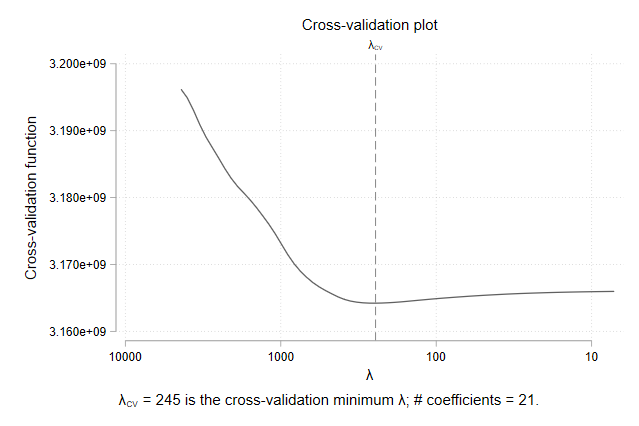
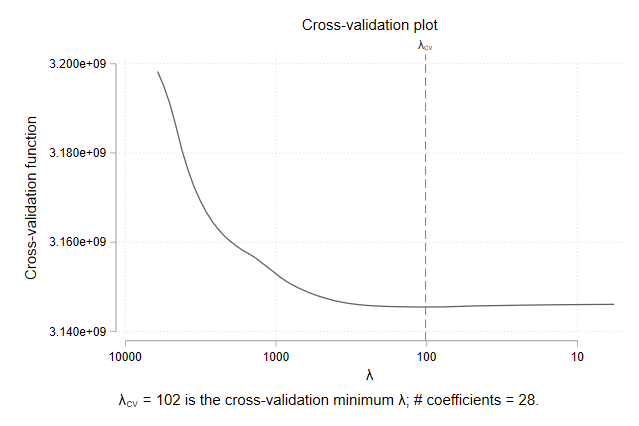
finish lasso

diff --git a/exercises/15-ml-elasticnet.md b/exercises/15-ml-elasticnet.md
@@ -7,72 +7,17 @@ language: Stata
 
 Lasso (α = 1) sets some coefficients to exactly zero. Ridge (α = 0) shrinks all coefficients but keeps every variable. Elastic net blends both. In this exercise, compare all three using `plot_dataset.dta`.
 
-- Using the training set, run `elasticnet linear` with `alpha(1)` (this is lasso — confirm it matches Exercise 2):
+- Using the training set, run `elasticnet linear` with `alpha(1)` (this is lasso — confirm it matches Exercise 2). Save results as `alph1`.
+- Run elastic net with `alpha(0.5)`. Save results as `alph5`.
+- Run ridge with `alpha(0)`. Save results as `alph0`.
+- Compare results using `lassocoef`.
 
-```stata
-* lasso via elasticnet (alpha = 1)
-    elasticnet linear yield_kg plot_area_GPS seed_kg ///
-                        nitrogen_kg total_labor_days ///
-                        total_hired_labor_days improved ///
-                        used_pesticides organic_fertilizer ///
-                        irrigated intercropped ///
-                        age_manager female_manager ///
-                        formal_education_manager ///
-                        plot_slope elevation ///
-                        dist_market dist_popcenter ///
-                        soil_fertility_index ///
-                        crop_shock drought_shock ///
-                        i.wave i.admin_1 ///
-                        if sample == 1, alpha(1)
-    predict         yhat_a1
-```
+*If a model does not converge, remember you can change the search space and/or the stopping rule.*
 
-- Run elastic net with `alpha(0.5)`:
+1. How many variables with nonzero coefficients are in each model?
 
-```stata
-* elastic net (alpha = 0.5)
-    elasticnet linear yield_kg plot_area_GPS seed_kg ///
-                        nitrogen_kg total_labor_days ///
-                        total_hired_labor_days improved ///
-                        used_pesticides organic_fertilizer ///
-                        irrigated intercropped ///
-                        age_manager female_manager ///
-                        formal_education_manager ///
-                        plot_slope elevation ///
-                        dist_market dist_popcenter ///
-                        soil_fertility_index ///
-                        crop_shock drought_shock ///
-                        i.wave i.admin_1 ///
-                        if sample == 1, alpha(0.5)
-    predict         yhat_a5
-```
+2. How does the number of selected variables change as α moves from 1 (lasso) to 0.5 (elastic net) to 0 (ridge)? Why?
 
-- Run ridge with `alpha(0)`:
-
-```stata
-* ridge (alpha = 0)
-    elasticnet linear yield_kg plot_area_GPS seed_kg ///
-                        nitrogen_kg total_labor_days ///
-                        total_hired_labor_days improved ///
-                        used_pesticides organic_fertilizer ///
-                        irrigated intercropped ///
-                        age_manager female_manager ///
-                        formal_education_manager ///
-                        plot_slope elevation ///
-                        dist_market dist_popcenter ///
-                        soil_fertility_index ///
-                        crop_shock drought_shock ///
-                        i.wave i.admin_1 ///
-                        if sample == 1, alpha(0)
-    predict         yhat_a0
-```
-
-- For each model, compute the out-of-sample MSE on the test set.
-
-1. For each α value, use `lassocoef` to count the number of variables with nonzero coefficients. How does the number of selected variables change as α moves from 1 (lasso) to 0.5 (elastic net) to 0 (ridge)?
-
-2. Compare the out-of-sample MSE across the three models. Which performs best? Is the difference large?
-
-3. In what situation would you prefer ridge regression over lasso? Think about what happens when many predictors are correlated.
+3. Compare the out-of-sample MSE across the three models. Which performs best? Is the difference large?
 
 ---

diff --git a/exercises/15-ml-lasso.md b/exercises/15-ml-lasso.md
@@ -7,17 +7,17 @@ language: Stata
 
 Use Stata's native `lasso linear` command to predict crop yield using a large set of covariates from `plot_dataset.dta`. The lasso will automatically select which variables to keep by shrinking unimportant coefficients to zero.
 
-- Using the training set only (`if sample == 1`), run `lasso linear` to predict `yield_kg` using the following covariates: `plot_area_GPS`, `seed_kg`, `nitrogen_kg`, `total_labor_days`, `total_hired_labor_days`, `improved`, `used_pesticides`, `organic_fertilizer`, `irrigated`, `intercropped`, `age_manager`, `female_manager`, `formal_education_manager`, `plot_slope`, `elevation`, `dist_market`, `dist_popcenter`, `soil_fertility_index`, `crop_shock`, `drought_shock`, and factor variables `i.wave` and `i.admin_1`.
+- Using the training set only (`if sample == 1`), run `lasso linear` to predict `yield_kg` using the following covariates: `plot_area_GPS`, `seed_kg`, `nitrogen_kg`, `total_labor_days`, `total_hired_labor_days`, `improved`, `used_pesticides`, `organic_fertilizer`, `irrigated`, `intercropped`, `age_manager`, `female_manager`, `formal_education_manager`, `plot_slope`, `elevation`, `dist_market`, `dist_popcenter`, `soil_fertility_index`, `crop_shock`, `drought_shock`, and factor variables `i.crop`, `1.agro_ecological_zone`, `i.wave` and `i.country`.
+- Store the estimates from this model (e.g., `estimates store cv`).
+- Run a second model on the same training set using adaptive lasso by adding the `selection(adaptive)` option to the previous command.
+- Store the estimates from the adaptive lasso model (e.g., `estimates store adpt`).
 
-1\. Inspect the selected variables with `lassocoef, display(coef, standardized)`. Which variables did lasso select?
+1\. Compare the selected variables using `lassocoef` for both stored models. Which coefficients are in the standard lasso but not in the adaptive lasso? Which ones are in the adaptive lasso but not in the standard lasso?
 
-2\. Plot the cross-validation curve with `cvplot`. Export the graph to Overleaf.
+2\. Create cross-validation plots for both models using `cvplot` (remember to use `estimates restore` before plotting each one). Export the graphs to Overleaf.
 
-- Generate predictions for the full dataset with `predict yhat_lasso`.
-- Compute the out-of-sample MSE on the test set (`sample == 0`). And calculate the mean.
-- Use `lassogof` to report the MSE for the training set.
+- Compare the in-sample and out-of-sample MSE for both models using `lassogof` with the `over(sample)` and `postselection` options.
 
-
-3\. Report the out-of-sample MSE for both models. Which model does better predicting out of sample?
+3\. Which model does best at out-of-sample prediction?
 
 ---
